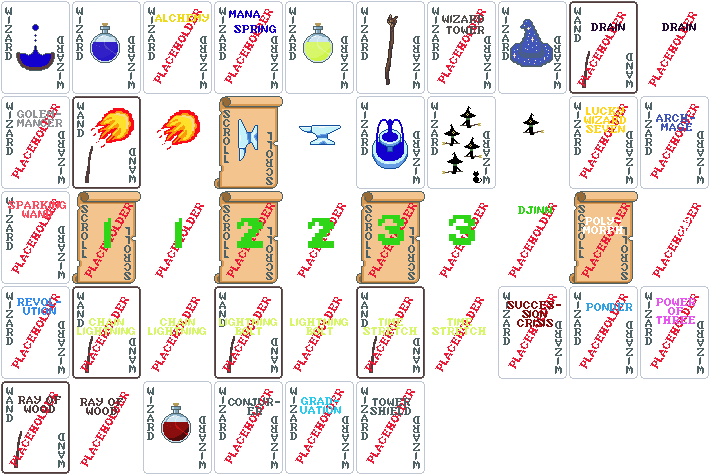
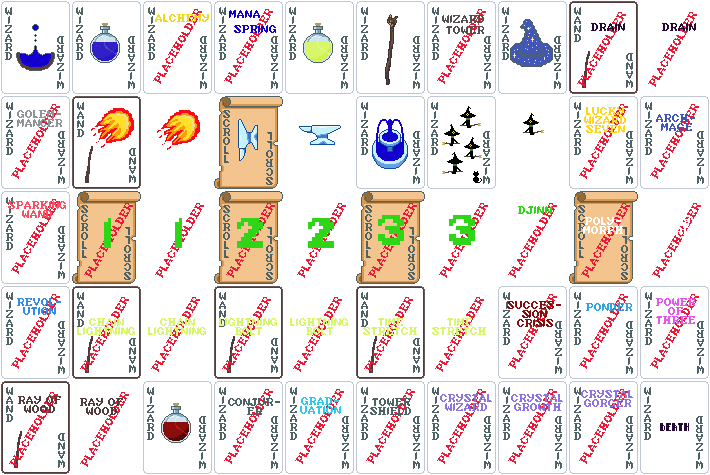
Add crystal enhancement and matching jokers (#8)
* crystal enhancement art + implementation

* Foresight

* PWD art, prelim crystal joker art, Foresight art tweak

* crystal wizard implementation

* crystal growth implementation

* crystal gorger implementation

* power word death implementation

* Add deck line installation instructions

* update version

Changed region(s): [[0.5887, 0.7958, 1.0, 1.0]]

diff --git a/README.md b/README.md
@@ -9,6 +9,7 @@ Wizardlatro is a mod that adds a new resource 'Mana' to manage while playing. In
 1. Install [Steamodded](https://github.com/Steamodded/smods/wiki)
 2. Download the latest stable version of Wizardlatro from the [releases page](https://github.com/thagorn/Wizardlatro/releases)
 3. Unzip into the Mods folder created during the Steamodded install
+4. Launch Balatro and select one of the new decks added by Wizardlatro
 
 ## Features
 
@@ -20,6 +21,16 @@ Wizardlatro is a mod that adds a new resource 'Mana' to manage while playing. In
   - 2 Rare jokers
   - 12 Spell jokers
   - 2 Summon jokers
+* And More!
+
+## Mechanics
+
+* Start each round with 5 mana
+* Cards cost 1 mana to play, Face cards cost +1 mana
+* Each game you start with 5 soul and if you play a hand that exceeds your current mana it dips into your soul instead
+* If your soul hits 0 you lose
+* Spell jokers are generated either by casting Scrolls/Wands or automatically from other jokers and will last until you play your next hand
+* Summon jokers are generated by other jokers and do not disappear
 
 ## Credits
 